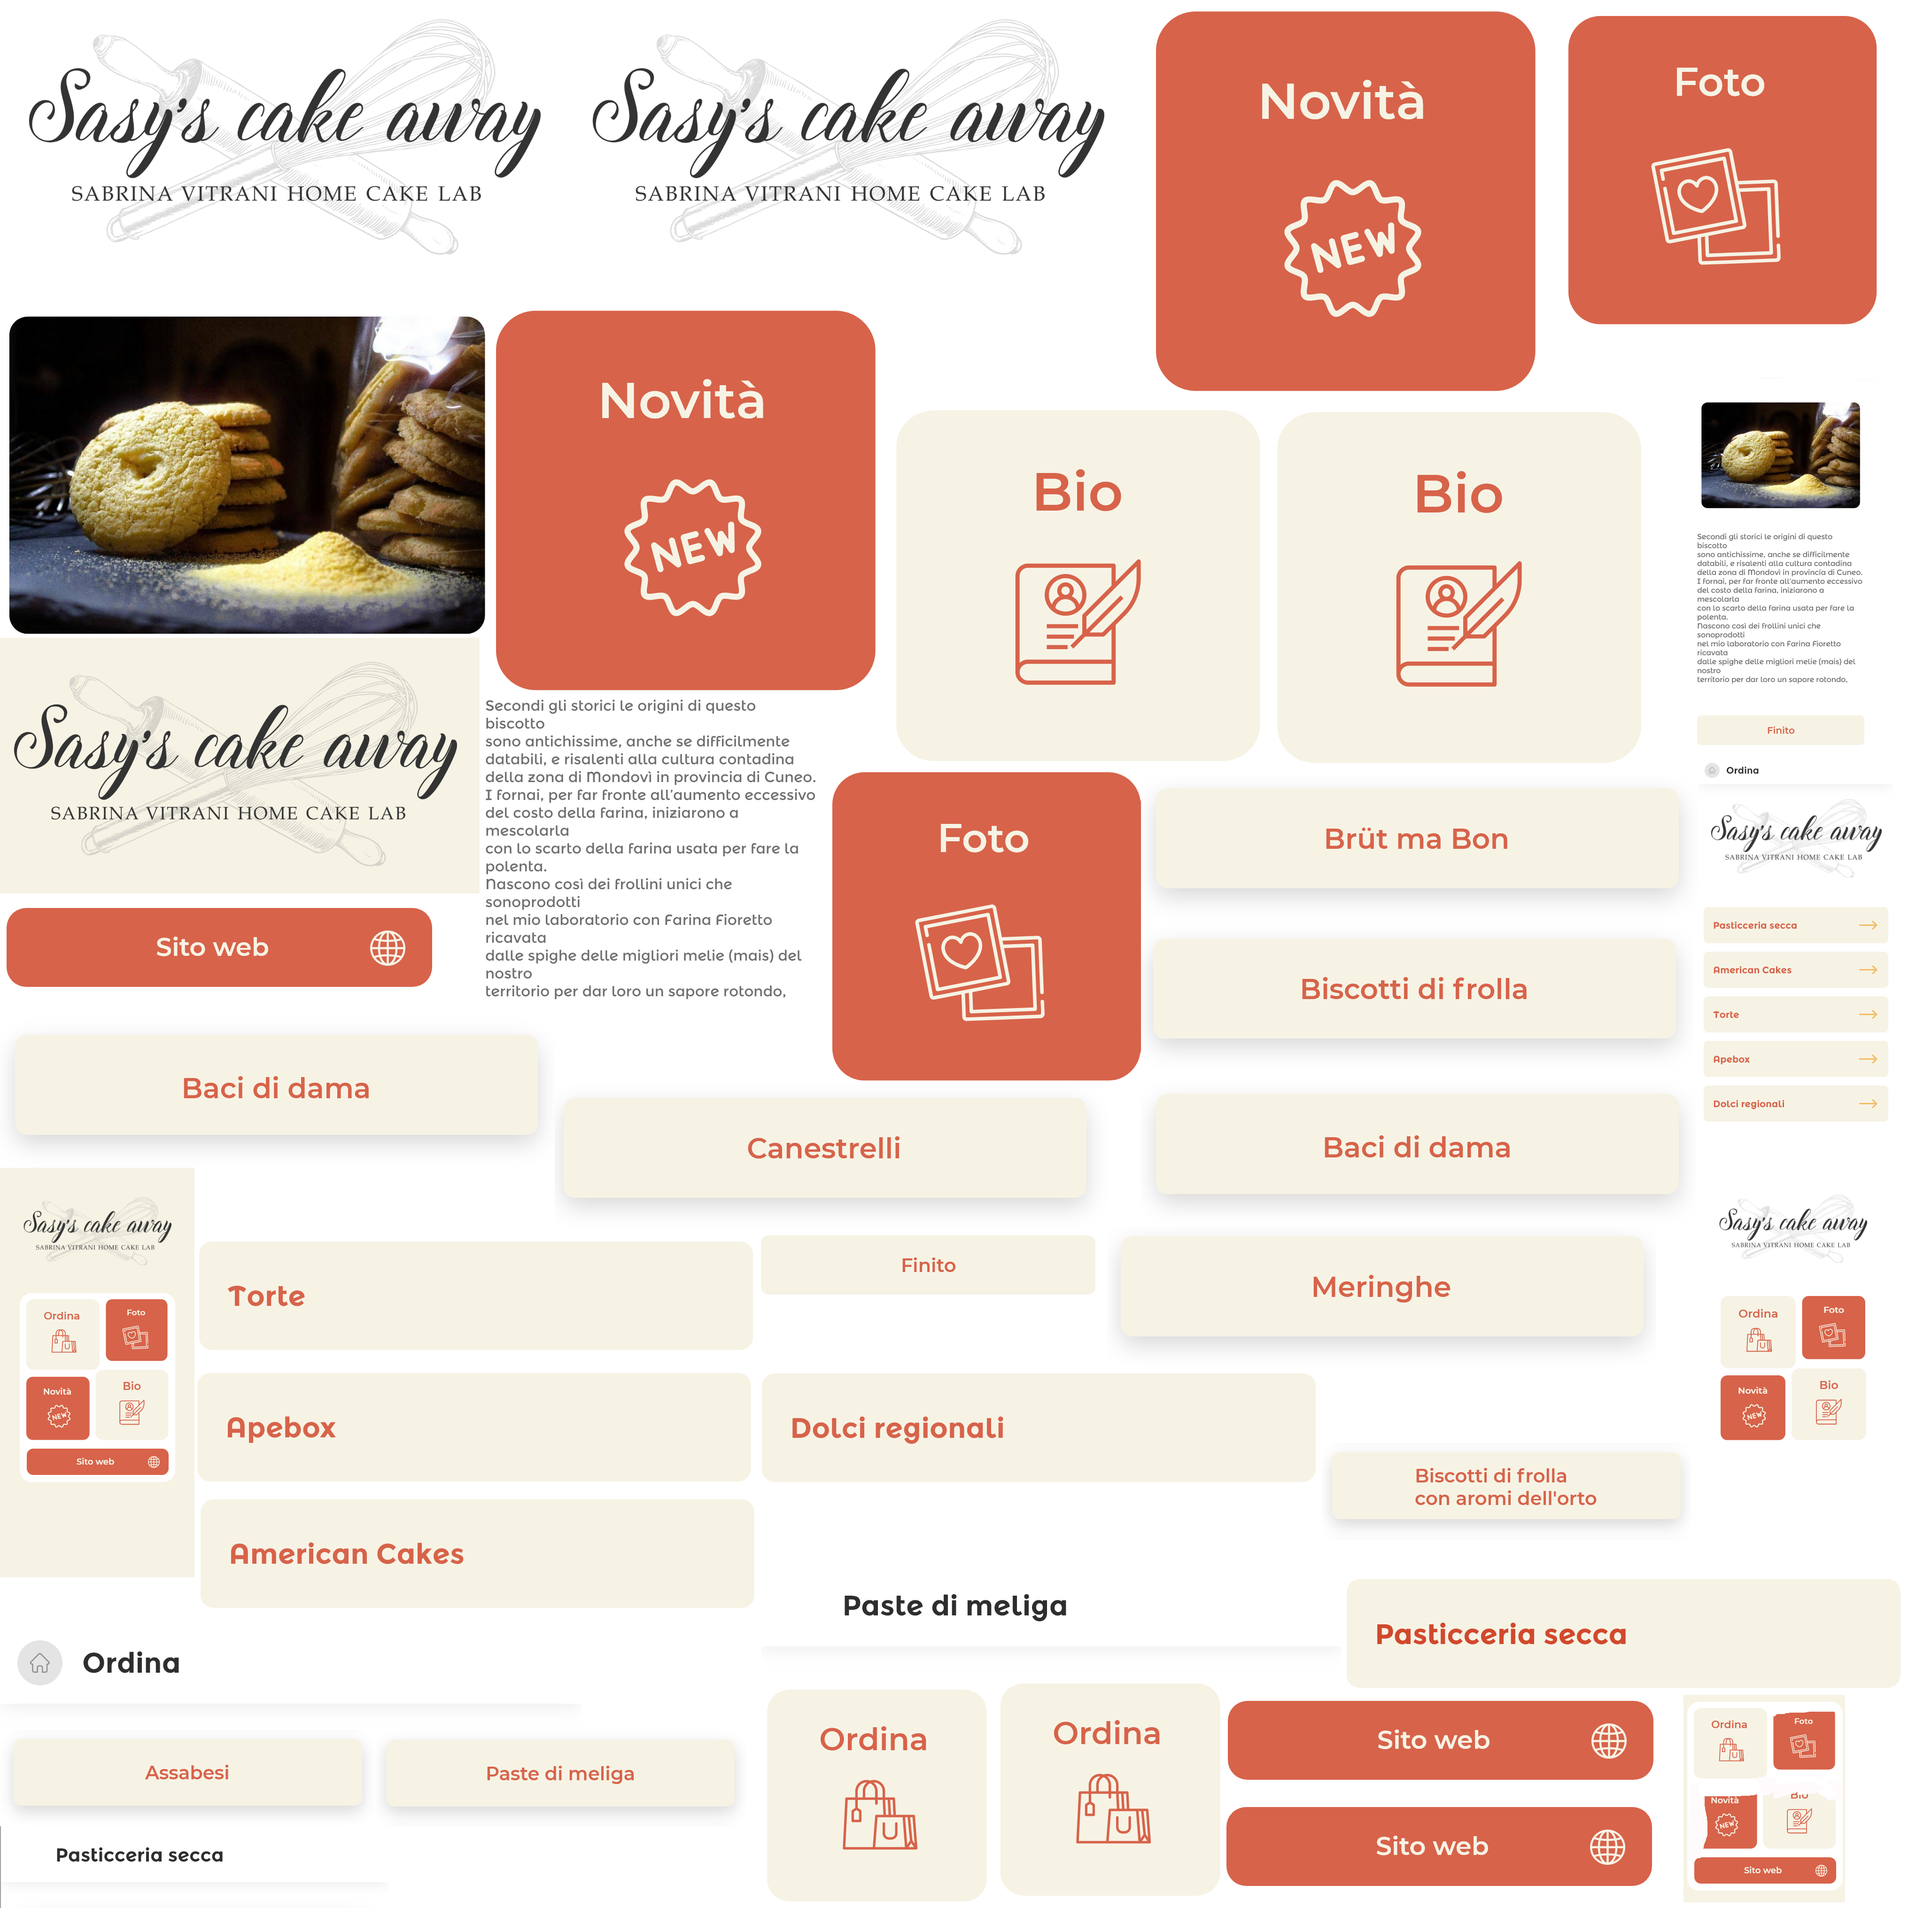
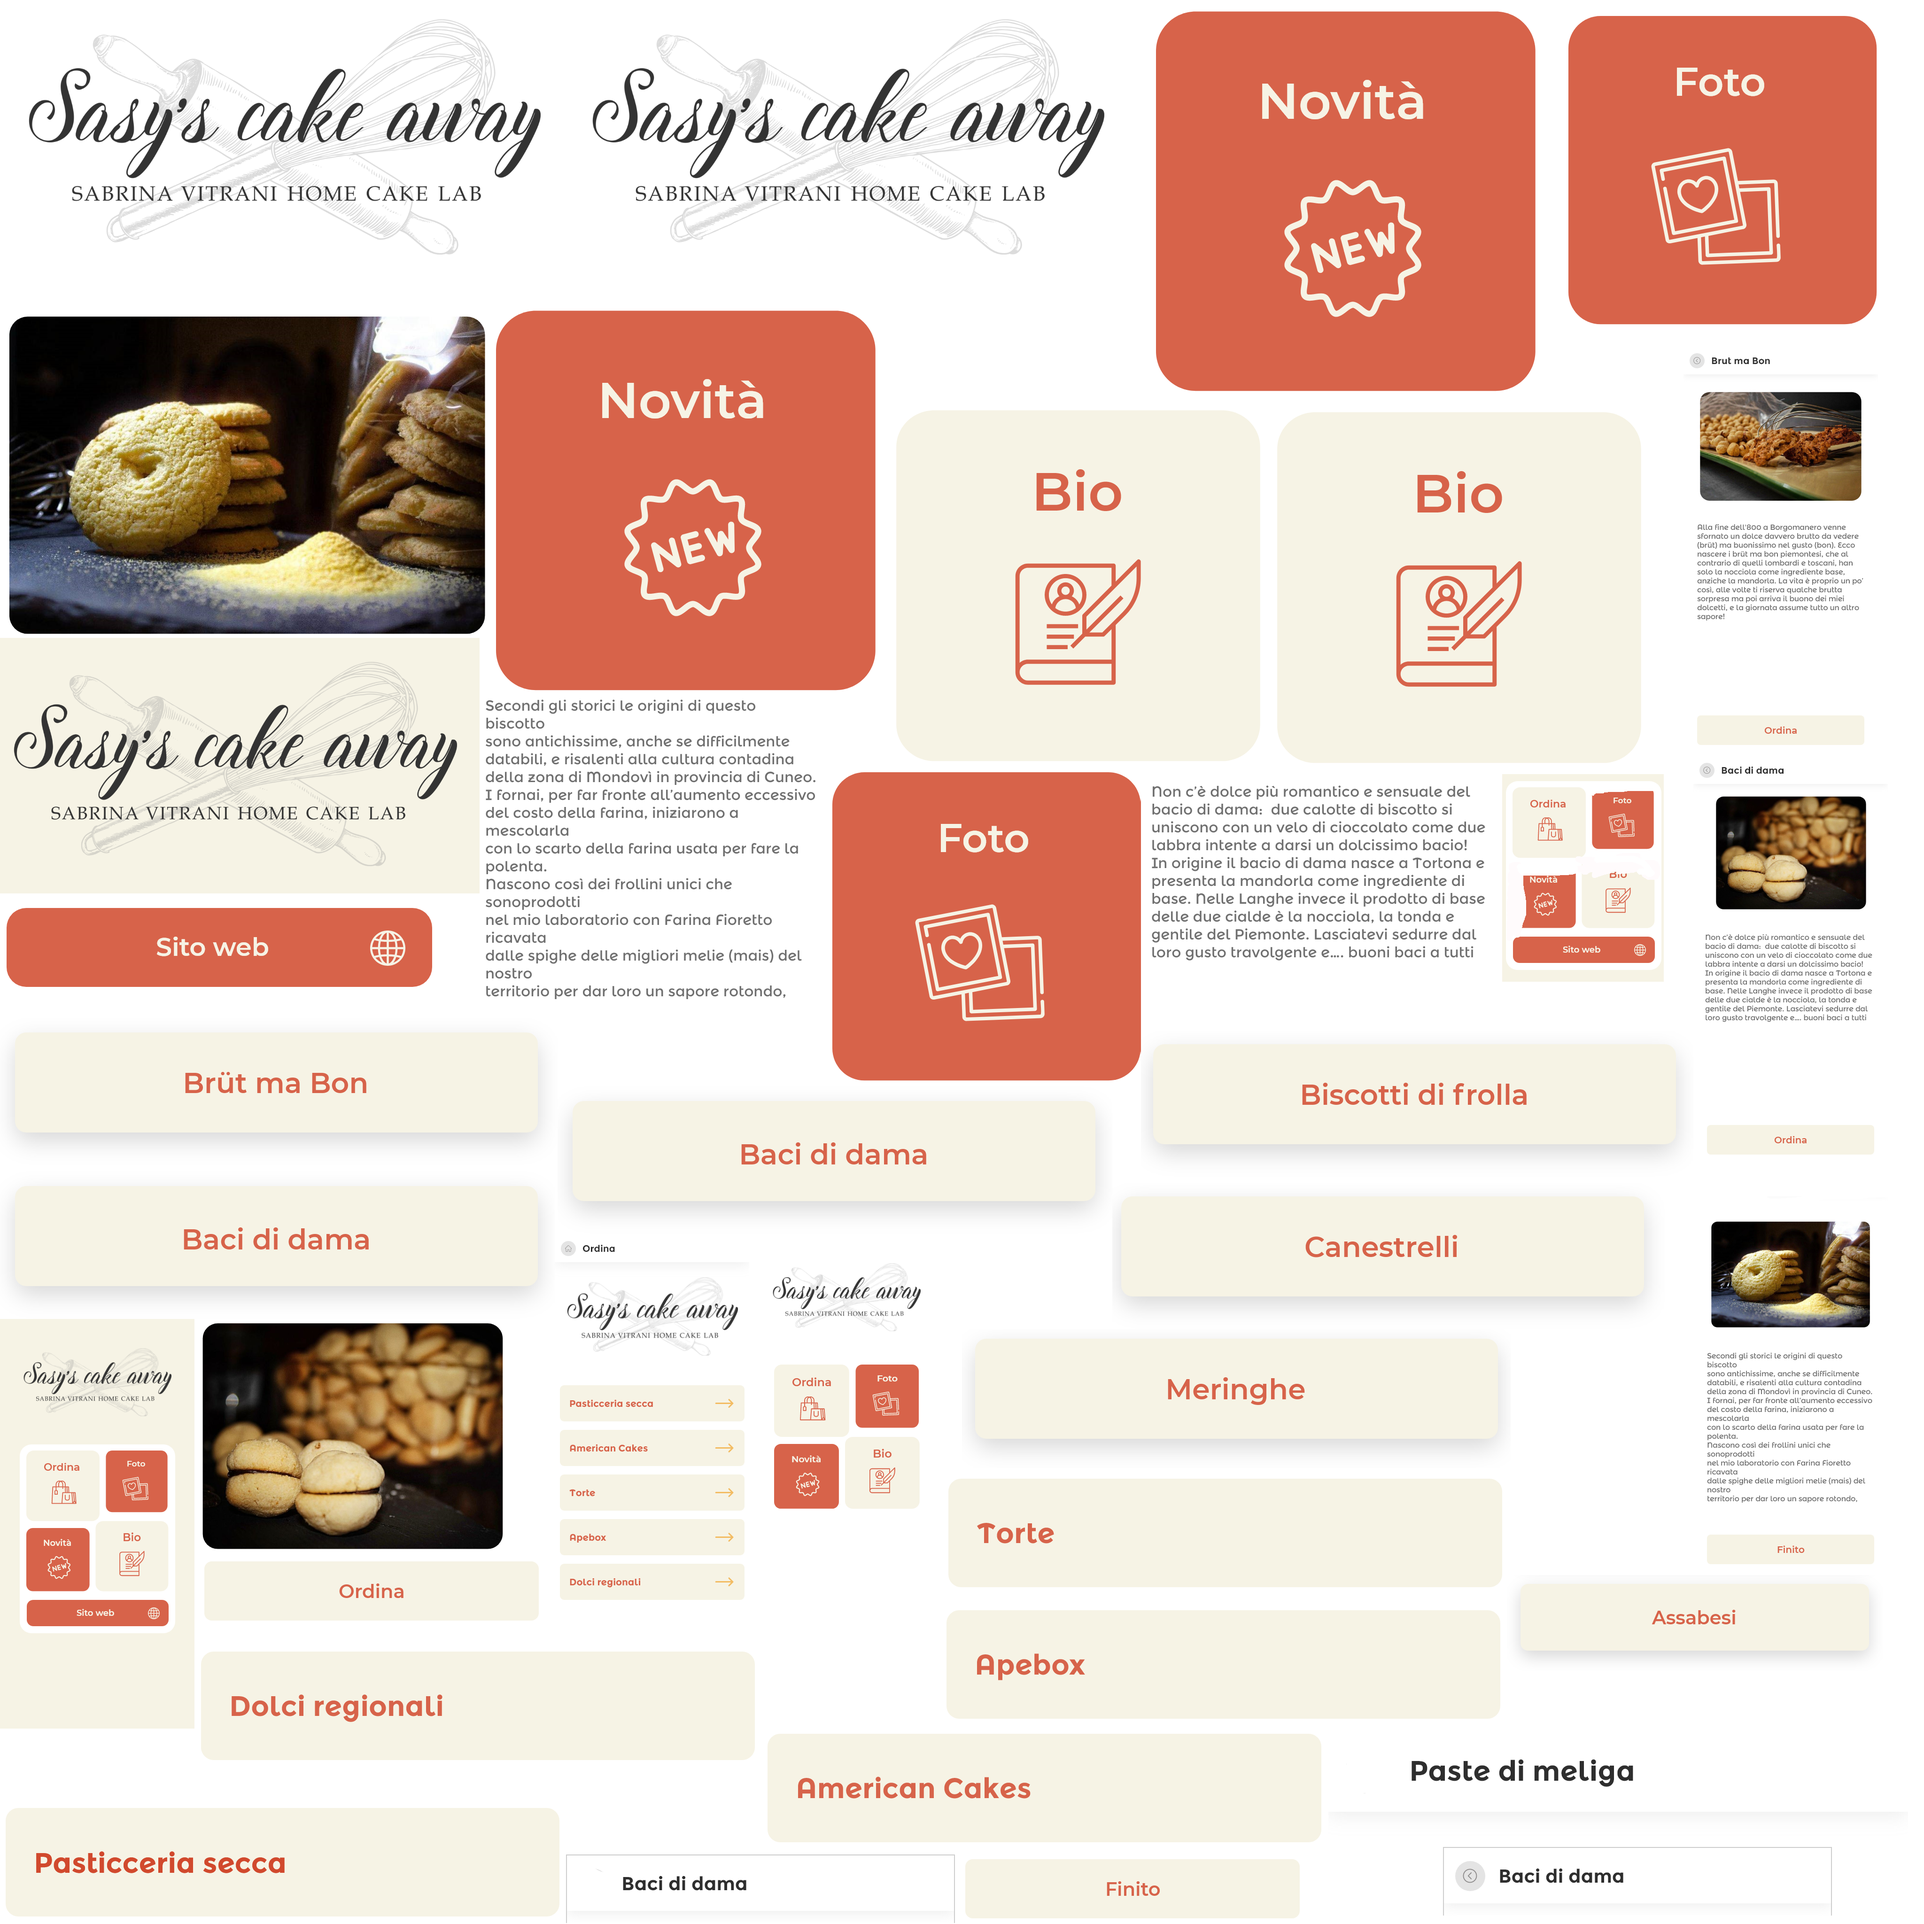
New pages and some fix
New pages for pasticceria secca(brut ma bon,baci di dama and paste di meliga) and fix button animations and transition slow and laggy

Changed region(s): [[0.0, 0.4062, 1.0, 1.0], [0.875, 0.1875, 0.9688, 0.3438]]

diff --git a/scripts/c3runtime.js b/scripts/c3runtime.js
@@ -2265,8 +2265,8 @@ this._gpuTimeEndFrame;this._gpuTimeEndFrame=0}GetGPUFrameTimingsBuffer(){return 
 let canvas=this._canvas;const snapArea=this._snapshotArea;const x=C3.clamp(Math.floor(snapArea.getLeft()),0,canvas.width);const y=C3.clamp(Math.floor(snapArea.getTop()),0,canvas.height);let w=snapArea.width();if(w===0)w=canvas.width-x;else w=C3.clamp(Math.floor(w),0,canvas.width-x);let h=snapArea.height();if(h===0)h=canvas.height-y;else h=C3.clamp(Math.floor(h),0,canvas.height-y);if((x!==0||y!==0||w!==canvas.width||h!==canvas.height)&&(w>0&&h>0)){canvas=C3.CreateCanvas(w,h);const ctx=canvas.getContext("2d");
 ctx.drawImage(this._canvas,x,y,w,h,0,0,w,h)}C3.CanvasToBlob(canvas,this._snapshotFormat,this._snapshotQuality).then(blob=>{this._snapshotUrl=URL.createObjectURL(blob);this._snapshotPromise=null;this._snapshotResolve(this._snapshotUrl)});this._snapshotFormat="";this._snapshotQuality=1}GetCanvasSnapshotUrl(){return this._snapshotUrl}InitLoadingScreen(loaderStyle){if(loaderStyle===2){this._percentText=C3.New(C3.Gfx.RendererText,this._webglRenderer);this._percentText.SetIsAsync(false);this._percentText.SetFontName("Arial");
 this._percentText.SetFontSize(16);this._percentText.SetHorizontalAlignment("center");this._percentText.SetVerticalAlignment("center");this._percentText.SetSize(PERCENTTEXT_WIDTH,PERCENTTEXT_HEIGHT)}else if(loaderStyle===0){const loadingLogoFilename=this._runtime.GetLoadingLogoFilename();const assetManager=this._runtime.GetAssetManager();let url;if(this._runtime.IsPreview()){if(!assetManager._HasLocalUrlBlob(loadingLogoFilename))return;url=assetManager.GetLocalUrlAsBlobUrl(loadingLogoFilename)}else url=
-assetManager.GetIconsSubfolder()+loadingLogoFilename;this._loadingLogoAsset=assetManager.LoadImage({url});this._loadingLogoAsset.LoadStaticTexture(this._webglRenderer).catch(err=>console.warn(`[C3 runtime] Failed to load '${loadingLogoFilename}' for loading screen. Check the project has an icon with that name.`,err))}else if(loaderStyle===4){this._LoadSvgSplashImage("splash-images/splash-logo.svg").then(tex=>{if(this._splashState==="done")this._webglRenderer.DeleteTexture(tex);else this._splashTextures.logo=
-tex}).catch(err=>console.warn("Failed to load splash image: ",err));this._LoadBitmapSplashImage("splash-images/splash-poweredby-512.png").then(tex=>{if(this._splashState==="done")this._webglRenderer.DeleteTexture(tex);else this._splashTextures.powered=tex}).catch(err=>console.warn("Failed to load splash image: ",err));this._LoadBitmapSplashImage("splash-images/splash-website-512.png").then(tex=>{if(this._splashState==="done")this._webglRenderer.DeleteTexture(tex);else this._splashTextures.website=
[2 lines of base64/hex data omitted]
 tex}).catch(err=>console.warn("Failed to load splash image: ",err))}}async _LoadSvgSplashImage(url){url=(new URL(url,this._runtime.GetBaseURL())).toString();const blob=await C3.FetchBlob(url);const drawable=await this._runtime.RasterSvgImage(blob,2048,2048);return await this._webglRenderer.CreateStaticTextureAsync(drawable,{mipMapQuality:"high"})}async _LoadBitmapSplashImage(url){url=(new URL(url,this._runtime.GetBaseURL())).toString();const blob=await C3.FetchBlob(url);return await this._webglRenderer.CreateStaticTextureAsync(blob,
 {mipMapQuality:"high"})}HideCordovaSplashScreen(){this._runtime.PostComponentMessageToDOM("runtime","hide-cordova-splash")}StartLoadingScreen(){this._loaderStartTime=Date.now();this._runtime.Dispatcher().addEventListener("loadingprogress",this._loadingprogress_handler);this._rafId=requestAnimationFrame(()=>this._DrawLoadingScreen());const loaderStyle=this._runtime.GetLoaderStyle();if(loaderStyle!==3)this.HideCordovaSplashScreen()}async EndLoadingScreen(){this._loadingProgress=1;const loaderStyle=
 this._runtime.GetLoaderStyle();if(loaderStyle===4)await this._splashDonePromise;this._splashDoneResolve=null;this._splashDonePromise=null;if(this._rafId!==-1){cancelAnimationFrame(this._rafId);this._rafId=-1}this._runtime.Dispatcher().removeEventListener("loadingprogress",this._loadingprogress_handler);this._loadingprogress_handler=null;if(this._percentText){this._percentText.Release();this._percentText=null}if(this._loadingLogoAsset){this._loadingLogoAsset.Release();this._loadingLogoAsset=null}this._webglRenderer.Start();
@@ -2836,6 +2836,7 @@ WaypointYAt(i){return this._GetWaypointYAt(i)}}};
 		C3.Behaviors.MoveTo,
 		C3.Plugins.System.Cnds.OnLayoutStart,
 		C3.Plugins.Sprite.Acts.SetVisible,
+		C3.Plugins.System.Acts.LoadLayoutTextures,
 		C3.Plugins.Touch.Cnds.OnTapGestureObject,
 		C3.Behaviors.Fade.Acts.StartFade,
 		C3.Plugins.System.Acts.Wait,
@@ -2888,8 +2889,8 @@ WaypointYAt(i){return this._GetWaypointYAt(i)}}};
 		{Sprite13: 0},
 		{Sprite15: 0},
 		{Pastedimeliga: 0},
-		{Sprite36: 0},
-		{Sprite37: 0},
+		{Bacididama: 0},
+		{Brutmabon: 0},
 		{Sprite38: 0},
 		{Sprite39: 0},
 		{Sprite40: 0},
@@ -2909,7 +2910,25 @@ WaypointYAt(i){return this._GetWaypointYAt(i)}}};
 		{Sprite48: 0},
 		{Sprite49: 0},
 		{indietromeliga: 0},
-		{Sprite35: 0}
+		{Sprite35: 0},
+		{Sprite50: 0},
+		{bacididama3d: 0},
+		{Sprite52: 0},
+		{Sprite53: 0},
+		{Sprite54: 0},
+		{Sprite55: 0},
+		{Sprite56: 0},
+		{baci3d: 0},
+		{Sprite36: 0},
+		{indietrodama: 0},
+		{Sprite51: 0},
+		{Sprite57: 0},
+		{Sprite58: 0},
+		{Sprite59: 0},
+		{Sprite60: 0},
+		{Sprite61: 0},
+		{brutmabon3d: 0},
+		{Sprite37: 0}
 	];
 }
 
@@ -3011,13 +3030,15 @@ WaypointYAt(i){return this._GetWaypointYAt(i)}}};
 	}
 
 	self.C3_ExpressionFuncs = [
-		() => 0.1,
+		() => 0.3,
 		() => "https://sasycakeaway.com/",
 		() => "NewWindow",
 		() => -200,
+		() => 0.1,
 		() => 360,
 		() => 600,
-		() => 0.16,
+		() => 0.17,
+		() => 0.25,
 		() => 0
 	];
 }
